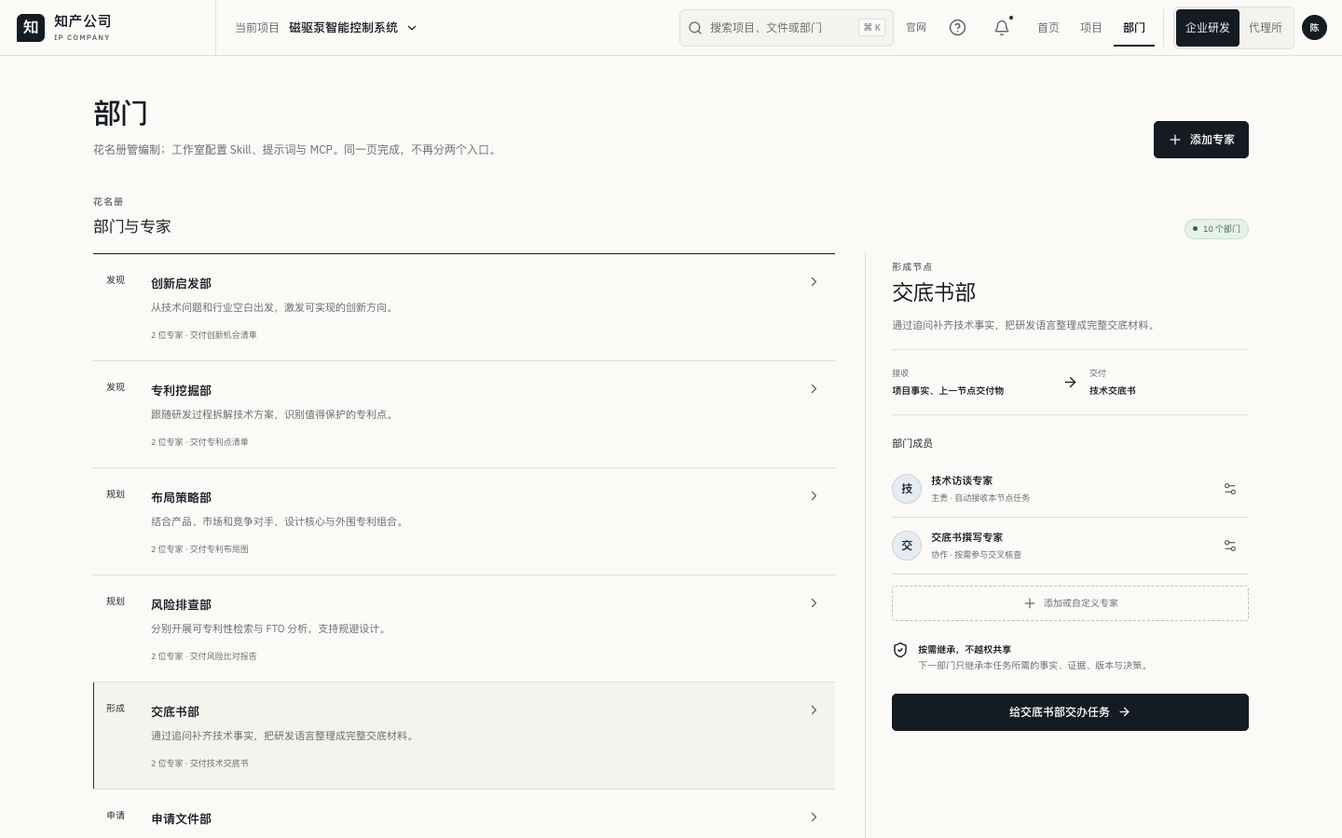
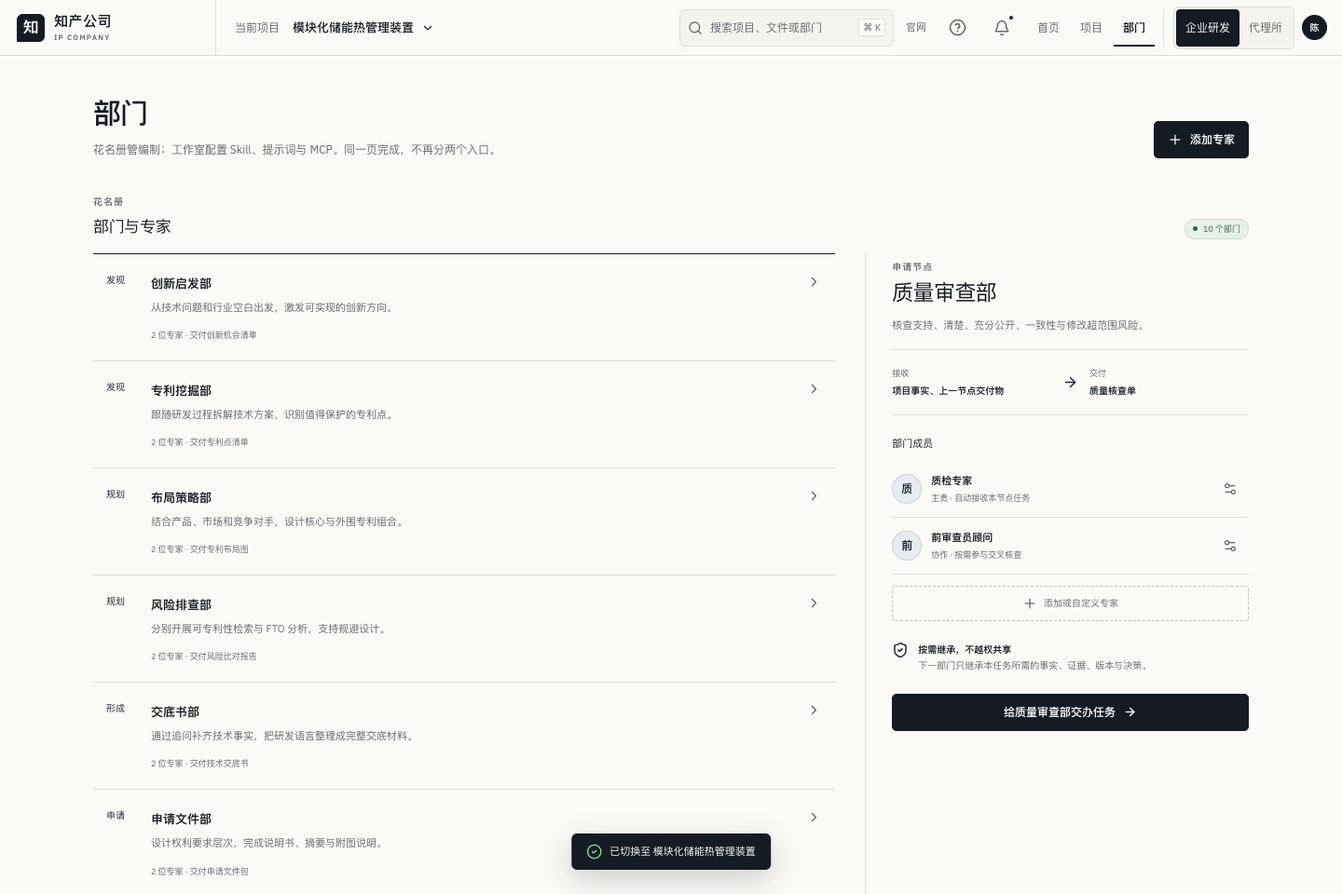
v3: project switcher + P1 a11y (forms, skip-link, hit areas)
Make topbar current-project a real recent-case picker with empty state;
fill form name/autocomplete; tabular nums; skip-link; drop dead messages view.

diff --git a/docs/prototype/main-path-v3/src/App.tsx b/docs/prototype/main-path-v3/src/App.tsx
@@ -131,12 +131,13 @@ export default function App() {
   const [customExperts, setCustomExperts] = useState<string[]>([])
   const [chat, setChat] = useState<string[]>([])
   const [message, setMessage] = useState('')
-  const [selectedMessage, setSelectedMessage] = useState(0)
   const [saved, setSaved] = useState(true)
   const [projectFilter, setProjectFilter] = useState('')
   const [objectFilter, setObjectFilter] = useState<'全部对象' | ObjectKind>('全部对象')
   const [noticeOpen, setNoticeOpen] = useState(false)
   const [homeMsgFocus, setHomeMsgFocus] = useState(false)
+  const [activeProjectCode, setActiveProjectCode] = useState<string | null>('RD-2026-017')
+  const [projectPickerOpen, setProjectPickerOpen] = useState(false)
   const [showProcess, setShowProcess] = useState(false)
   const [workContext, setWorkContext] = useState<WorkContext>('magnetic')
   const [leadInput, setLeadInput] = useState('')
@@ -152,6 +153,7 @@ export default function App() {
 
   const notify = (text: string) => { setToast(text); window.setTimeout(() => setToast(''), 2800) }
   const navigate = (next: View) => {
+    setProjectPickerOpen(false)
     if (next === 'messages') {
       setMode('assistant')
       setView('home')
@@ -181,14 +183,32 @@ export default function App() {
     setWorkContext(context)
     setActiveDoc(oa ? '意见陈述书' : context === 'storage' ? '权利要求草案' : handedOff ? '权利要求草案' : '交底书 V3')
     setActiveDept(oa ? 'oa' : context === 'storage' ? 'quality' : handedOff ? 'drafting' : 'disclosure')
+    setActiveProjectCode(oa ? 'CN202610483217.6' : context === 'storage' ? 'CN202610512086.4' : 'RD-2026-017')
     setFactConfirmed(false)
     setNodeConfirmed(false)
     setWorkView('collaboration')
+    setProjectPickerOpen(false)
     navigate('workbench')
   }
+  const selectActiveProject = (project: (typeof projects)[number]) => {
+    setActiveProjectCode(project.code)
+    setProjectPickerOpen(false)
+    if (project.kind === '产品风险') {
+      setActiveDept('risk')
+      notify(`已切换至 ${project.name}`)
+      return
+    }
+    const oa = project.stage.includes('OA')
+    const ctx: WorkContext = project.code === 'CN202610512086.4' || project.code === 'RD-2026-006' ? 'storage' : 'magnetic'
+    setWorkContext(oa ? 'magnetic' : ctx)
+    setActiveDoc(oa ? '意见陈述书' : ctx === 'storage' ? '权利要求草案' : handedOff ? '权利要求草案' : '交底书 V3')
+    setActiveDept(oa ? 'oa' : ctx === 'storage' ? 'quality' : handedOff ? 'drafting' : 'disclosure')
+    notify(`已切换至 ${project.name}`)
+  }
   const openProject = (project: (typeof projects)[number]) => {
+    setActiveProjectCode(project.code)
     if (project.kind === '产品风险') { setActiveDept('risk'); setModal('task'); return }
-    openWorkbench(project.stage.includes('OA'), project.code === 'CN202610512086.4' ? 'storage' : 'magnetic')
+    openWorkbench(project.stage.includes('OA'), project.code === 'CN202610512086.4' || project.code === 'RD-2026-006' ? 'storage' : 'magnetic')
   }
   const openDocument = (doc?: string) => {
     if (doc) setActiveDoc(doc)
@@ -206,6 +226,15 @@ export default function App() {
     : storageMode
       ? { glyph: 'ES', name: '模块化储能热管理装置', code: 'CN202610512086.4', status: '申请文件质检', object: '申请案件状态' }
       : { glyph: 'MP', name: '磁驱泵智能控制系统', code: 'RD-2026-017', status: handedOff ? '申请文件起草' : '交底书完善', object: '研发项目状态' }
+  const activeProject = projects.find(p => p.code === activeProjectCode) ?? null
+  const contextLabel = view === 'workbench'
+    ? (oaMode || storageMode ? '当前案件' : '当前项目')
+    : role === 'enterprise' ? '当前项目' : '当前客户'
+  const contextName = view === 'workbench'
+    ? workMeta.name
+    : activeProject
+      ? (role === 'agency' ? `澄明科技 · ${activeProject.name}` : activeProject.name)
+      : null
   const scopeText = oaMode && role === 'enterprise'
     ? '双方共享空间 · 代理所私有过程不可见'
     : role === 'agency'
@@ -324,23 +353,55 @@ export default function App() {
   const filteredSearch = searchItems.filter(i => `${i.title}${i.meta}`.toLowerCase().includes(search.toLowerCase()))
 
   if (surface === 'site') return <MarketingSite onEnter={() => setSurface('login')} onLogin={() => setSurface('login')} />
-  if (surface === 'login') return <LoginPage role={role} onRole={setRole} firstRun={firstRun} onFirstRun={setFirstRun} onBack={() => setSurface('site')} onEnter={() => { setSurface('app'); setMode('assistant'); setView('home'); setLeadRequest(''); setLeadInput('') }} />
+  if (surface === 'login') return <LoginPage role={role} onRole={setRole} firstRun={firstRun} onFirstRun={setFirstRun} onBack={() => setSurface('site')} onEnter={() => { setSurface('app'); setMode('assistant'); setView('home'); setLeadRequest(''); setLeadInput(''); setActiveProjectCode(firstRun ? null : 'RD-2026-017'); setProjectPickerOpen(false) }} />
 
   return <div className={`app-shell ${firstRun && view === 'home' ? 'first-run-shell' : ''}`}>
+    <a className="skip-link" href="#main-content">跳到主内容</a>
     <header className="topbar">
       {mode === 'project' && <button className="mobile-menu icon-btn" onClick={() => setMobileNav(true)} aria-label="打开导航"><Menu size={20} /></button>}
       <button className="brand" onClick={() => navigate('home')} aria-label="返回首页">
         <span className="brand-mark">知</span><span className="brand-copy"><strong>知产公司</strong><small>IP COMPANY</small></span>
       </button>
       <div className="topbar-context">
-        <span className="context-label">{view === 'workbench' ? (oaMode || storageMode ? '当前案件' : '当前项目') : role === 'enterprise' ? '当前项目' : '当前客户'}</span>
-        <button className="context-button" onClick={() => openWorkbench(role === 'agency')}>{view === 'workbench' ? workMeta.name : role === 'enterprise' ? '磁驱泵智能控制系统' : '澄明科技 · 低能耗膜分离工艺'}<ChevronDown size={14} /></button>
+        <span className="context-label">{contextLabel}</span>
+        <div className="context-picker">
+          <button
+            type="button"
+            className={`context-button ${!contextName ? 'context-empty' : ''}`}
+            aria-expanded={projectPickerOpen}
+            aria-haspopup="listbox"
+            aria-label={contextName ? `${contextLabel}：${contextName}` : `${contextLabel}：暂无活跃`}
+            onClick={() => { setNoticeOpen(false); setProjectPickerOpen(v => !v) }}
+          >
+            <span>{contextName ?? (firstRun ? '暂无活跃项目' : '选择项目')}</span>
+            <ChevronDown size={14} />
+          </button>
+          {projectPickerOpen && <div className="context-menu" role="listbox" aria-label="最近项目">
+            <div className="popover-title">{role === 'enterprise' ? '最近项目' : '最近案件'} <button type="button" onClick={() => setProjectPickerOpen(false)}>收起</button></div>
+            {(firstRun || !activeProjectCode) && <p className="context-empty-note">还没有活跃{role === 'enterprise' ? '项目' : '案件'}。可从列表选择，或新建后进入。</p>}
+            {projects.map(p => <button
+              key={p.code}
+              type="button"
+              role="option"
+              aria-selected={p.code === activeProjectCode}
+              className={p.code === activeProjectCode ? 'active' : ''}
+              onClick={() => selectActiveProject(p)}
+            >
+              <span><strong>{p.name}</strong><small>{p.kind} · {p.stage}</small></span>
+              {p.code === activeProjectCode && <Check size={14} />}
+            </button>)}
+            <div className="context-menu-foot">
+              <button type="button" onClick={() => { setProjectPickerOpen(false); switchMode('project') }}>打开{role === 'enterprise' ? '项目' : '案件'}列表</button>
+              <button type="button" onClick={() => { setProjectPickerOpen(false); setModal('new') }}>新建</button>
+            </div>
+          </div>}
+        </div>
       </div>
       <div className="topbar-actions">
         <button className="search-trigger" onClick={() => setSearchOpen(true)}><Search size={16} /><span>搜索项目、文件或部门</span><kbd>⌘ K</kbd></button>
         <button className="app-site-link" onClick={() => setSurface('site')}>官网</button><button className="icon-btn help-btn" onClick={() => setModal('guide')} aria-label="产品与原型导览"><CircleHelp size={19} /></button>
         <div className="notice-wrap">
-          <button className="icon-btn notice-button" onClick={() => setNoticeOpen(v => !v)} aria-label="通知"><Bell size={18} /><span /></button>
+          <button className="icon-btn notice-button" onClick={() => { setProjectPickerOpen(false); setNoticeOpen(v => !v) }} aria-label="通知"><Bell size={18} /><span /></button>
           {noticeOpen && <div className="notice-popover">
             <div className="popover-title">待办提醒 <button onClick={() => setNoticeOpen(false)}>收起</button></div>
             <button onClick={() => openWorkbench(role === 'agency')}><Clock3 size={16} /><span><strong>{role === 'enterprise' ? '交底书有 2 处待确认' : 'OA 答复期限剩余 18 天'}</strong><small>今天 14:30 前处理</small></span></button>
@@ -377,7 +438,7 @@ export default function App() {
         </div>
       </aside>}
 
-      <main className={`content ${view === 'workbench' ? 'content-workbench' : ''} ${mode === 'assistant' || mode === 'studio' ? 'content-assistant' : ''}`}>
+      <main id="main-content" className={`content ${view === 'workbench' ? 'content-workbench' : ''} ${mode === 'assistant' || mode === 'studio' ? 'content-assistant' : ''}`}>
         {view === 'home' && (role === 'enterprise' ? <>
           <section className="home-intro company-home-intro">
             <div><p className="date-line">{firstRun ? '你的虚拟知产公司 · 从第一件事开始' : '首页 · 顾言统一组织，你只处理关键确认与消息'}</p><h1>{firstRun ? <>你好，陈宇。<br />我是顾言，你的知产负责人。</> : <>早上好，陈宇。<br />今天有 3 件事需要你处理。</>}</h1></div>
@@ -398,7 +459,7 @@ export default function App() {
               ['产品上市前排查风险', '明确产品、地区和时间，再开展 FTO 分析', ShieldCheck],
               ['处理审查意见', '读取通知书与期限，组织答复策略和代理师复核', FileClock],
             ].map(([title, desc, Icon]) => <button key={String(title)} onClick={() => setLeadInput(String(title))}><Icon size={20} /><span><strong>{String(title)}</strong><small>{String(desc)}</small></span><ArrowUpRight size={16} /></button>)}</div></div>
-            <aside className="first-run-steps"><span className="section-kicker">开始之后</span>{[['01', '先看计划', '知道哪个部门负责、会交付什么'], ['02', '只补必要事实', '不需要一次性整理全部研发资料'], ['03', '确认再接力', '未经确认，不自动共享或对外递交']].map(s => <div key={s[0]}><span>{s[0]}</span><p><strong>{s[1]}</strong><small>{s[2]}</small></p></div>)}<button className="text-btn" onClick={() => setFirstRun(false)}>查看已有工作演示<ArrowRight size={14} /></button></aside>
+            <aside className="first-run-steps"><span className="section-kicker">开始之后</span>{[['01', '先看计划', '知道哪个部门负责、会交付什么'], ['02', '只补必要事实', '不需要一次性整理全部研发资料'], ['03', '确认再接力', '未经确认，不自动共享或对外递交']].map(s => <div key={s[0]}><span>{s[0]}</span><p><strong>{s[1]}</strong><small>{s[2]}</small></p></div>)}<button className="text-btn" onClick={() => { setFirstRun(false); setActiveProjectCode(v => v ?? 'RD-2026-017') }}>查看已有工作演示<ArrowRight size={14} /></button></aside>
           </section> : <>
           <section className="company-attention" aria-label="现在需要我处理">
             <div className="company-section-head"><div><span className="section-kicker">现在需要我处理</span><h2>按期限与流程影响排序</h2></div><button className="text-btn" onClick={() => navigate('messages')}>全部消息<ArrowRight size={14} /></button></div>
@@ -411,7 +472,7 @@ export default function App() {
               ['林岚 · 代理师', '请确认 D1 是否对应你们旧款产品', '磁驱泵智能控制系统', '10:31', 0],
               ['申请文件部', '权利要求草案已形成，等待你确认保护层次', '模块化储能热管理', '昨天', 1],
               ['风险排查部', '发现 1 件高风险专利，建议安排技术比对', '高速视觉检测设备', '周二', 2],
-            ].map((m) => <button key={String(m[0])} onClick={() => { setSelectedMessage(Number(m[4])); if (Number(m[4]) === 2) { setActiveDept('risk'); setModal('task') } else openWorkbench(false, Number(m[4]) === 1 ? 'storage' : 'magnetic') }}><Avatar name={String(m[0])} human={Number(m[4]) === 0} /><span><strong>{m[0]}</strong><small>{m[1]}</small><em>{m[2]} · {m[3]}</em></span><ChevronRight size={15} /></button>)}</div>
+            ].map((m) => <button key={String(m[0])} onClick={() => { if (Number(m[4]) === 2) { setActiveDept('risk'); setModal('task') } else openWorkbench(false, Number(m[4]) === 1 ? 'storage' : 'magnetic') }}><Avatar name={String(m[0])} human={Number(m[4]) === 0} /><span><strong>{m[0]}</strong><small>{m[1]}</small><em>{m[2]} · {m[3]}</em></span><ChevronRight size={15} /></button>)}</div>
           </section>
 
           <section className="company-work" aria-label="公司正在推进">
@@ -507,7 +568,7 @@ export default function App() {
               <div className="feed-item"><Avatar name="林" human small /><div><p><strong>林岚 · 代理师</strong><time>10:31</time></p><p>{oaMode ? '先保留方法权利要求的层次，不急于加入全部参数。请确认实际生产是否采用该范围。' : '从申请策略看，建议保留“异常评分自适应修正”这一层。它可能是后续答复创造性的关键。'}</p></div></div>
               {chat.map((c, i) => <div className="feed-item own" key={i}><Avatar name="我" human small /><div><p><strong>我</strong><time>刚刚</time></p><p>{c}</p></div></div>)}
             </div>
-            <div className="department-compose"><div><textarea value={message} onChange={e => setMessage(e.target.value)} onKeyDown={e => { if (e.key === 'Enter' && !e.shiftKey) { e.preventDefault(); sendChat() } }} placeholder="用自然语言交办或补充说明…" rows={2} /><button onClick={() => notify('附件选择器已打开')} aria-label="添加附件"><Paperclip size={16} /></button></div><div><span>Enter 发送</span><button className="icon-btn send-btn" onClick={sendChat} aria-label="发送"><Send size={16} /></button></div></div>
+            <div className="department-compose"><div><textarea name="dept_compose" autoComplete="off" value={message} onChange={e => setMessage(e.target.value)} onKeyDown={e => { if (e.key === 'Enter' && !e.shiftKey) { e.preventDefault(); sendChat() } }} placeholder="用自然语言交办或补充说明…" rows={2} aria-label="向部门交办" /><button onClick={() => notify('附件选择器已打开')} aria-label="添加附件"><Paperclip size={16} /></button></div><div><span>Enter 发送</span><button className="icon-btn send-btn" onClick={sendChat} aria-label="发送"><Send size={16} /></button></div></div>
             <button className="handoff-button" onClick={() => setModal('handoff')}><GitBranch size={16} /><span><strong>{oaMode ? role === 'agency' ? '交付客户确认' : '确认答复策略' : storageMode ? role === 'agency' ? '交付客户确认' : '确认质检与申请文件' : role === 'agency' ? '交付客户确认' : handedOff ? '查看接力记录' : '让下一部门继续'}</strong><small>{oaMode ? role === 'agency' ? '生成带版本与权限的交付快照' : '确认后回传代理所并保留记录' : storageMode ? role === 'agency' ? '生成质检版本与申请策略交付快照' : '质检版本与申请策略一并确认' : role === 'agency' ? '仅共享指定交付物与确认事项' : handedOff ? '交底书部 → 申请文件部' : '按权限继承所需事实、证据与版本'}</small></span><ArrowRight size={16} /></button>
           </aside>}
           </section> : <section className="collaboration-workspace">
@@ -527,7 +588,7 @@ export default function App() {
 
                 <section className="collab-feed"><div className="collab-section-head"><div><span className="section-kicker">动作与沟通</span><h2>项目内连续记录</h2></div><button className="text-btn" onClick={() => notify('已暂停当前节点的新任务，已有版本保留')}>暂停节点</button></div><div className="collab-event"><span className="event-time">10:24</span><div><p><strong>{collab.tasks[0][0]}</strong> {collab.tasks[0][3]}</p><button onClick={() => openDocument(collab.deliverableDoc)}>定位到交付物<ArrowUpRight size={12} /></button></div></div><div className="collab-event"><span className="event-time">10:31</span><div><p><strong>林岚 · 专利代理师</strong> {oaMode ? '建议保留修改层次，先确认实际生产控制逻辑，再确定最终答复口径。' : storageMode ? '两项遗留问题不影响继续核查，但保护范围需要企业研发与代理师共同确认。' : handedOff ? '独权暂不加入具体阈值，避免不必要缩小保护范围；仍需确认量产方案。' : '建议保留“异常评分自适应修正”这一层，可能是后续答复创造性的关键。'}</p></div></div>{chat.map((c, i) => <div className="collab-event own" key={`${c}-${i}`}><span className="event-time">刚刚</span><div><p><strong>我 → 顾言</strong> {c}</p><small>已纳入当前项目指令，部门会在本线程回复</small></div></div>)}</section>
               </div>
-              <form className="collab-compose" onSubmit={e => { e.preventDefault(); sendChat() }}><div><Avatar name="顾" small /><textarea value={message} onChange={e => setMessage(e.target.value)} onKeyDown={e => { if (e.key === 'Enter' && !e.shiftKey) { e.preventDefault(); sendChat() } }} placeholder="在当前项目中向顾言或部门交办：补充事实、调整目标、追问依据…" rows={2} /><button type="button" className="icon-btn" onClick={() => notify('附件将关联到当前项目与节点')} aria-label="添加项目附件"><Paperclip size={16} /></button></div><footer><div><button type="button" onClick={() => setMessage('请汇总当前节点还缺哪些事实和依据。')}>还缺什么</button><button type="button" onClick={() => setMessage('请调整工作计划，并说明对交付和期限的影响。')}>调整计划</button><button type="button" onClick={() => setMessage(`请让${collab.department}退回上一版本重新核查。`)}>退回核查</button></div><button className="btn btn-ink" type="submit" disabled={!message.trim()}>发送给顾言<Send size={14} /></button></footer></form>
+              <form className="collab-compose" onSubmit={e => { e.preventDefault(); sendChat() }}><div><Avatar name="顾" small /><textarea name="collab_compose" autoComplete="off" value={message} onChange={e => setMessage(e.target.value)} onKeyDown={e => { if (e.key === 'Enter' && !e.shiftKey) { e.preventDefault(); sendChat() } }} placeholder="在当前项目中向顾言或部门交办：补充事实、调整目标、追问依据…" rows={2} aria-label="向顾言交办" /><button type="button" className="icon-btn" onClick={() => notify('附件将关联到当前项目与节点')} aria-label="添加项目附件"><Paperclip size={16} /></button></div><footer><div><button type="button" onClick={() => setMessage('请汇总当前节点还缺哪些事实和依据。')}>还缺什么</button><button type="button" onClick={() => setMessage('请调整工作计划，并说明对交付和期限的影响。')}>调整计划</button><button type="button" onClick={() => setMessage(`请让${collab.department}退回上一版本重新核查。`)}>退回核查</button></div><button className="btn btn-ink" type="submit" disabled={!message.trim()}>发送给顾言<Send size={14} /></button></footer></form>
             </div>
 
             <aside className="delivery-confirm-pane">
@@ -578,9 +639,9 @@ export default function App() {
               <nav className="studio-tabs" aria-label="专业配置">{([['department', '部门组成'], ['experts', '专家定义'], ['skills', 'Skill'], ['prompt', '提示词'], ['mcp', 'MCP'], ['release', '测试与发布']] as const).map(([id, label]) => <button key={id} className={studioTab === id ? 'active' : ''} aria-pressed={studioTab === id} onClick={() => setStudioTab(id)}>{label}</button>)}</nav>
               <div className="studio-body">
                 {studioTab === 'department' && <div className="config-section"><div className="config-title"><div><h3>部门如何完成一次交付</h3><p>部门负责分工、接力、复核与验收，不是专家名单的简单集合。</p></div><button className="btn btn-secondary" onClick={() => setModal('expert')}><Plus size={14} />添加专家</button></div><div className="department-flow"><div><span>01</span><strong>主责专家起草</strong><small>读取本任务所需事实与证据</small></div><ArrowRight size={18} /><div><span>02</span><strong>协作专家核查</strong><small>按 Skill 执行检查与补充</small></div><ArrowRight size={18} /><div><span>03</span><strong>真实人员复核</strong><small>确认后形成{currentDept.output}</small></div></div>{currentDept.experts.map((e, i) => <div className="expert-row" key={e}><Avatar name={e} /><div><strong>{e}</strong><small>{i === 0 ? '主责 · 组织输入、起草与自检' : '协作 · 交叉核查与例外处理'}</small></div><button className="btn btn-secondary" onClick={() => setStudioTab('experts')}>配置职责</button></div>)}<div className="department-rule"><ShieldCheck size={18} /><p><strong>验收与权限</strong><br />交付必须绑定来源、版本和复核记录；跨组织仅共享确认快照。</p></div></div>}
-                {studioTab === 'experts' && <div className="config-section"><div className="config-title"><div><h3>专家定义</h3><p>专家定义“负责什么、不能做什么”，具体方法由 Skill 提供。</p></div><Status>个人草稿</Status></div><div className="config-form"><label>专家名称<input defaultValue={currentDept.experts[0]} /></label><label>职责与责任边界<textarea rows={4} defaultValue={`负责${currentDept.name}的主责任务；核验输入完整性，组织起草与自检。不得替代真实代理师作最终法律判断，不得补造技术事实。`} /></label><div className="form-two"><label>参与方式<select defaultValue="每个本部门任务均参与"><option>每个本部门任务均参与</option><option>按需参与</option><option>仅指定时参与</option></select></label><label>异常时升级给<select defaultValue="真实代理师"><option>真实代理师</option><option>知产负责人</option><option>企业研发负责人</option></select></label></div><div className="config-actions"><span>保存为草稿，不影响进行中的项目</span><button className="btn btn-ink" onClick={() => notify('专家定义已保存为个人草稿')}>保存专家草稿</button></div></div></div>}
+                {studioTab === 'experts' && <div className="config-section"><div className="config-title"><div><h3>专家定义</h3><p>专家定义“负责什么、不能做什么”，具体方法由 Skill 提供。</p></div><Status>个人草稿</Status></div><div className="config-form"><label>专家名称<input name="studio_expert_name" autoComplete="off" defaultValue={currentDept.experts[0]} /></label><label>职责与责任边界<textarea name="studio_expert_duty" autoComplete="off" rows={4} defaultValue={`负责${currentDept.name}的主责任务；核验输入完整性，组织起草与自检。不得替代真实代理师作最终法律判断，不得补造技术事实。`} /></label><div className="form-two"><label>参与方式<select name="studio_expert_mode" autoComplete="off" defaultValue="每个本部门任务均参与"><option>每个本部门任务均参与</option><option>按需参与</option><option>仅指定时参与</option></select></label><label>异常时升级给<select name="studio_expert_escalate" autoComplete="off" defaultValue="真实代理师"><option>真实代理师</option><option>知产负责人</option><option>企业研发负责人</option></select></label></div><div className="config-actions"><span>保存为草稿，不影响进行中的项目</span><button className="btn btn-ink" onClick={() => notify('专家定义已保存为个人草稿')}>保存专家草稿</button></div></div></div>}
                 {studioTab === 'skills' && <div className="config-section"><div className="config-title"><div><h3>绑定 Skill</h3><p>Skill 提供方法、流程、模板、规则和示例，可跨专家复用。</p></div><button className="btn btn-secondary" onClick={() => notify('Skill 模板库已打开')}><Library size={14} />从模板库添加</button></div><div className="skill-grid">{[['技术事实完整性核查', '检查问题、方案、效果与替代实施方式是否闭环', '团队模板 · V2.1'], ['交底书结构化撰写', '按中国发明专利交底结构组织内容与追问', '组织模板 · V3.4'], ['证据来源与引用检查', '确保结论能够回到文献、段落和检索日期', '组织模板 · V1.8']].map((s, i) => <article key={s[0]}><div><FileCheck2 size={18} /><Status tone={i === 0 ? 'orange' : 'green'}>{i === 0 ? '待更新' : '已绑定'}</Status></div><h4>{s[0]}</h4><p>{s[1]}</p><footer><span>{s[2]}</span><button onClick={() => notify(`${s[0]}配置已打开`)}>查看规则<ArrowUpRight size={13} /></button></footer></article>)}</div></div>}
-                {studioTab === 'prompt' && <div className="config-section"><div className="config-title"><div><h3>提示词与行为约束</h3><p>约束判断原则、表达方式和禁止事项，不把密钥或可变业务数据写进提示词。</p></div><Status>部门统一规则</Status></div><div className="prompt-editor"><div><span>system_prompt.md</span><small>草稿自动保存于本地演示</small></div><textarea value={prompt} onChange={e => { setPrompt(e.target.value); setTestPassed(false); setPublished(false) }} rows={9} aria-label="部门提示词" /><footer><span>{prompt.length} 字 · 继承组织安全规则</span><button className="btn btn-ink" onClick={() => notify('提示词草稿已保存')}>保存草稿</button></footer></div><div className="department-rule"><CircleAlert size={18} /><p><strong>优先级</strong><br />组织安全与权限规则 ＞ 部门规则 ＞ 专家个性约束 ＞ 单次任务说明。</p></div></div>}
+                {studioTab === 'prompt' && <div className="config-section"><div className="config-title"><div><h3>提示词与行为约束</h3><p>约束判断原则、表达方式和禁止事项，不把密钥或可变业务数据写进提示词。</p></div><Status>部门统一规则</Status></div><div className="prompt-editor"><div><span>system_prompt.md</span><small>草稿自动保存于本地演示</small></div><textarea name="studio_prompt" autoComplete="off" value={prompt} onChange={e => { setPrompt(e.target.value); setTestPassed(false); setPublished(false) }} rows={9} aria-label="部门提示词" /><footer><span>{prompt.length} 字 · 继承组织安全规则</span><button className="btn btn-ink" onClick={() => notify('提示词草稿已保存')}>保存草稿</button></footer></div><div className="department-rule"><CircleAlert size={18} /><p><strong>优先级</strong><br />组织安全与权限规则 ＞ 部门规则 ＞ 专家个性约束 ＞ 单次任务说明。</p></div></div>}
                 {studioTab === 'mcp' && <div className="config-section"><div className="config-title"><div><h3>MCP 数据与工具连接</h3><p>连接只提供必要能力；凭据由管理员保管，专家按任务获得最小权限。</p></div><button className="btn btn-secondary" onClick={() => notify('连接申请已提交管理员')}><Cable size={14} />申请新连接</button></div><div className="mcp-list">{[['专利文献检索', '只读 · 检索与文献正文', '组织已连接'], ['企业研发文档库', '只读 · 当前项目授权目录', '项目授权'], ['案件与期限管理', '读写 · 仅本部门负责案件', '组织已连接']].map(m => <div key={m[0]}><span className="mcp-icon"><Cable size={17} /></span><div><strong>{m[0]}</strong><small>{m[1]} · {m[2]}</small></div><button className={`toggle ${mcpEnabled.includes(m[0]) ? 'on' : ''}`} role="switch" aria-checked={mcpEnabled.includes(m[0])} aria-label={`${m[0]}连接`} onClick={() => { setMcpEnabled(v => v.includes(m[0]) ? v.filter(x => x !== m[0]) : [...v, m[0]]); setTestPassed(false); setPublished(false) }}><span /></button></div>)}</div><div className="department-rule"><ShieldCheck size={18} /><p><strong>最小权限与审计</strong><br />禁止把访问密钥写入提示词；所有外部读取、写入与交付动作保留调用记录。</p></div></div>}
                 {studioTab === 'release' && <div className="config-section"><div className="config-title"><div><h3>试运行、发布与回滚</h3><p>配置只有通过样例测试和权限检查，才能成为团队或组织模板。</p></div><Status tone={testPassed ? 'green' : 'orange'}>{testPassed ? '测试通过' : '待测试'}</Status></div><div className="release-grid"><div><FlaskConical size={20} /><h4>01 · 样例试运行</h4><p>使用“磁驱泵交底书 V3”验证输入读取、专家接力、输出结构和人工升级。</p><button className="btn btn-secondary" onClick={() => { setTestPassed(true); notify('3 个样例测试通过，权限检查通过') }}><FlaskConical size={14} />{testPassed ? '重新运行测试' : '运行 3 个样例'}</button></div><div><Rocket size={20} /><h4>02 · 发布新版本</h4><p>发布范围：团队模板。进行中的项目继续使用原版本，新项目可选择 V1.4。</p><button className="btn btn-ink" disabled={!testPassed || published} onClick={() => { setPublished(true); notify('V1.4 已发布；进行中项目仍使用原版本') }}><Rocket size={14} />{published ? '已发布 V1.4' : '发布 V1.4'}</button></div></div><div className="version-table"><div><strong>版本</strong><strong>范围</strong><strong>状态</strong><strong>项目策略</strong></div><div><span>V1.3</span><span>团队模板</span><Status tone="green">当前正式版</Status><span>进行中项目继续使用</span></div><div><span>V1.4</span><span>个人草稿</span><Status tone={published ? 'green' : 'neutral'}>{published ? '已发布' : testPassed ? '可发布' : '草稿'}</Status><span>不追溯修改旧项目</span></div></div><button className="text-btn" onClick={() => notify('已打开 V1.2 回滚预览，尚未执行回滚')}><GitBranch size={14} />查看历史版本与回滚预览</button></div>}
               </div>
@@ -589,29 +650,22 @@ export default function App() {
           </section>
         </ListPage>}
 
-        {view === 'messages' && <ListPage title={role === 'enterprise' ? '协同消息' : '客户协同'} subtitle="讨论始终关联项目、文档和决策，不再散落在即时通讯里。" action="发起协同" onAction={() => setModal('task')}>
-          <div className="messages-layout"><div className="message-list">{[
-            ['林岚 · 代理师', '请确认 D1 是否对应你们旧款产品', '磁驱泵智能控制系统', '10:31'],
-            ['申请文件部', '权利要求草案已形成，等待你确认保护层次', '模块化储能热管理', '昨天'],
-            ['风险排查部', '发现 1 件高风险专利，建议安排技术比对', '高速视觉检测设备', '周二'],
-          ].map((m, i) => <button key={m[0]} className={selectedMessage === i ? 'active' : ''} onClick={() => setSelectedMessage(i)}><Avatar name={m[0]} human={i === 0} /><div><strong>{m[0]}</strong><p>{m[1]}</p><small>{m[2]}</small></div><time>{m[3]}</time></button>)}</div><div className="message-thread"><div className="thread-head"><div><strong>{['林岚 · 代理师', '申请文件部', '风险排查部'][selectedMessage]}</strong><small>{['磁驱泵智能控制系统', '模块化储能热管理', '高速视觉检测设备'][selectedMessage]}</small></div><button className="btn btn-secondary" onClick={() => { if (selectedMessage === 2) { setActiveDept('risk'); setModal('task') } else openWorkbench(false, selectedMessage === 1 ? 'storage' : 'magnetic') }}>进入项目</button></div><div className="thread-body"><div className="thread-date">今天</div><div className="thread-message"><Avatar name="林" human /><div><p>{selectedMessage === 0 ? '检索报告中的 D1 描述了一种磁驱泵温度保护方案。请确认它是否对应你们 2024 年已经销售的 MP-200，以及当时是否公开了控制逻辑。' : selectedMessage === 1 ? '已根据交底书形成 12 项权利要求，其中独立权利要求 2 项。请重点确认保护范围是否覆盖计划量产方案。' : 'CN114820391B 的权利要求 1 与当前视觉检测结构存在较高重合。建议研发、代理师一起确认可规避特征。'}</p><small>10:31 · 关联检索证据 D1</small></div></div><div className="thread-message own"><Avatar name="陈" human /><div><p>我先和硬件负责人核对旧款资料，今天 14:00 前给你结论。</p><small>10:36 · 已读</small></div></div></div><div className="thread-compose"><input placeholder="回复，并保留在当前项目记录中…" onKeyDown={e => { if (e.key === 'Enter') { notify('回复已发送并归档到项目'); e.currentTarget.value = '' } }} /><button className="btn btn-ink" onClick={() => notify('回复已发送并归档到项目')}>发送</button></div></div></div>
-        </ListPage>}
       </main>
     </div>
 
     {toast && <div className="toast" role="status" aria-live="polite"><CheckCircle2 size={17} />{toast}</div>}
 
     {searchOpen && <Modal title="搜索整个知产公司" subtitle="项目、案件、文件和部门，都可以从这里直达。" onClose={() => { setSearchOpen(false); setSearch('') }}>
-      <div className="command-search"><Search size={19} /><input autoFocus value={search} onChange={e => setSearch(e.target.value)} placeholder="输入名称、编号或工作内容…" /><kbd>ESC</kbd></div><div className="search-results">{filteredSearch.slice(0, 8).map(item => <button key={item.title} onClick={() => { item.action(); setSearchOpen(false); setSearch('') }}><Search size={15} /><span><strong>{item.title}</strong><small>{item.meta}</small></span><ArrowUpRight size={15} /></button>)}{filteredSearch.length === 0 && <div className="empty-search">没有找到匹配内容，试试“交底书”或“FTO”。</div>}</div>
+      <div className="command-search"><Search size={19} /><input name="global_search" autoComplete="off" autoFocus value={search} onChange={e => setSearch(e.target.value)} placeholder="输入名称、编号或工作内容…" aria-label="搜索项目、文件或部门" /><kbd>ESC</kbd></div><div className="search-results">{filteredSearch.slice(0, 8).map(item => <button key={item.title} onClick={() => { item.action(); setSearchOpen(false); setSearch('') }}><Search size={15} /><span><strong>{item.title}</strong><small>{item.meta}</small></span><ArrowUpRight size={15} /></button>)}{filteredSearch.length === 0 && <div className="empty-search">没有找到匹配内容，试试“交底书”或“FTO”。</div>}</div>
     </Modal>}
 
     {modal === 'new' && <Modal title={role === 'enterprise' ? '启动一个新项目' : '新建案件'} subtitle="不用选择 Agent。告诉我们业务目标，系统会推荐负责部门和推进路径。" onClose={() => setModal(null)}>
-      <form className="form-stack" onSubmit={e => { e.preventDefault(); setModal(null); notify('项目已建立，创新启发部开始整理输入'); openWorkbench(false) }}><label>项目或技术名称<input required defaultValue="" placeholder="例如：一种低噪声磁驱泵控制方案" /></label><label>你想解决什么问题？<textarea required rows={4} placeholder="可以直接粘贴研发描述，不需要使用专利语言…" /></label><div className="form-two"><label>业务场景<select defaultValue="研发成果保护"><option>研发成果保护</option><option>新产品上市风险排查</option><option>收到审查意见</option><option>已有专利运营</option></select></label><label>期望申请类型<select defaultValue="由部门建议"><option>由部门建议</option><option>发明专利</option><option>实用新型</option><option>发明 + 实用新型</option></select></label></div><div className="form-hint"><Sparkles size={16} /><span>建议首站：创新启发部 → 专利挖掘部。后续会根据项目情况调整，而非固定走完整条流程。</span></div><div className="modal-actions"><button type="button" className="btn btn-secondary" onClick={() => setModal(null)}>取消</button><button className="btn btn-primary" type="submit">建立项目并开始<ArrowRight size={16} /></button></div></form>
+      <form className="form-stack" onSubmit={e => { e.preventDefault(); setModal(null); notify('项目已建立，创新启发部开始整理输入'); openWorkbench(false) }}><label>项目或技术名称<input name="project_name" autoComplete="off" required defaultValue="" placeholder="例如：一种低噪声磁驱泵控制方案" /></label><label>你想解决什么问题？<textarea name="project_goal" autoComplete="off" required rows={4} placeholder="可以直接粘贴研发描述，不需要使用专利语言…" /></label><div className="form-two"><label>业务场景<select name="project_scene" autoComplete="off" defaultValue="研发成果保护"><option>研发成果保护</option><option>新产品上市风险排查</option><option>收到审查意见</option><option>已有专利运营</option></select></label><label>期望申请类型<select name="project_type" autoComplete="off" defaultValue="由部门建议"><option>由部门建议</option><option>发明专利</option><option>实用新型</option><option>发明 + 实用新型</option></select></label></div><div className="form-hint"><Sparkles size={16} /><span>建议首站：创新启发部 → 专利挖掘部。后续会根据项目情况调整，而非固定走完整条流程。</span></div><div className="modal-actions"><button type="button" className="btn btn-secondary" onClick={() => setModal(null)}>取消</button><button className="btn btn-primary" type="submit">建立项目并开始<ArrowRight size={16} /></button></div></form>
     </Modal>}
 
-    {modal === 'task' && <Modal title="交办一项任务" subtitle={`${currentDept.name}会在权限范围内读取本任务所需内容，你只需说明目标与限制。`} onClose={() => setModal(null)}><form className="form-stack" onSubmit={e => { e.preventDefault(); setModal(null); notify(`任务已交给${currentDept.name}`); openWorkbench(false) }}><label>任务目标<textarea required rows={4} defaultValue={currentDept.id === 'risk' ? '针对计划在中国上市的 MP-300 新产品开展 FTO 分析，重点排查磁驱控制与密封结构。' : ''} placeholder="例如：上市前排查这款产品在中国的专利风险" /></label><label>希望交付物<select><option>{currentDept.output}</option><option>部门建议的完整交付包</option></select></label><label>需要重点照顾的要求<input placeholder="时间、预算、目标市场或指定专家（选填）" /></label><div className="modal-actions"><button type="button" className="btn btn-secondary" onClick={() => setModal(null)}>取消</button><button className="btn btn-primary" type="submit">确认交办<ArrowRight size={16} /></button></div></form></Modal>}
+    {modal === 'task' && <Modal title="交办一项任务" subtitle={`${currentDept.name}会在权限范围内读取本任务所需内容，你只需说明目标与限制。`} onClose={() => setModal(null)}><form className="form-stack" onSubmit={e => { e.preventDefault(); setModal(null); notify(`任务已交给${currentDept.name}`); openWorkbench(false) }}><label>任务目标<textarea name="task_goal" autoComplete="off" required rows={4} defaultValue={currentDept.id === 'risk' ? '针对计划在中国上市的 MP-300 新产品开展 FTO 分析，重点排查磁驱控制与密封结构。' : ''} placeholder="例如：上市前排查这款产品在中国的专利风险" /></label><label>希望交付物<select name="task_deliverable" autoComplete="off"><option>{currentDept.output}</option><option>部门建议的完整交付包</option></select></label><label>需要重点照顾的要求<input name="task_notes" autoComplete="off" placeholder="时间、预算、目标市场或指定专家（选填）" /></label><div className="modal-actions"><button type="button" className="btn btn-secondary" onClick={() => setModal(null)}>取消</button><button className="btn btn-primary" type="submit">确认交办<ArrowRight size={16} /></button></div></form></Modal>}
 
-    {modal === 'expert' && <Modal title="添加一位专家" subtitle="用职责与工作方式定义专家，不需要配置提示词、模型或工具链。" onClose={() => setModal(null)}><form className="form-stack" onSubmit={e => { e.preventDefault(); const data = new FormData(e.currentTarget); const name = String(data.get('expert') || '自定义专家'); setCustomExperts(v => [...v, name]); setModal(null); notify(`${name}已加入${currentDept.name}`) }}><label>专家名称<input name="expert" required placeholder="例如：泵行业资深技术顾问" /></label><label>加入部门<select defaultValue={currentDept.name}>{departments.map(d => <option key={d.id}>{d.name}</option>)}</select></label><label>他 / 她擅长什么？<textarea required rows={3} placeholder="例如：熟悉磁驱泵结构，擅长判断技术方案能否落地" /></label><label>参与方式<select><option>按需参与，由部门负责人邀请</option><option>每个任务都参与交叉复核</option><option>只在我指定时参与</option></select></label><div className="modal-actions"><button type="button" className="btn btn-secondary" onClick={() => setModal(null)}>取消</button><button className="btn btn-primary" type="submit">加入部门</button></div></form></Modal>}
+    {modal === 'expert' && <Modal title="添加一位专家" subtitle="用职责与工作方式定义专家，不需要配置提示词、模型或工具链。" onClose={() => setModal(null)}><form className="form-stack" onSubmit={e => { e.preventDefault(); const data = new FormData(e.currentTarget); const name = String(data.get('expert') || '自定义专家'); setCustomExperts(v => [...v, name]); setModal(null); notify(`${name}已加入${currentDept.name}`) }}><label>专家名称<input name="expert" autoComplete="off" required placeholder="例如：泵行业资深技术顾问" /></label><label>加入部门<select name="expert_dept" autoComplete="off" defaultValue={currentDept.name}>{departments.map(d => <option key={d.id}>{d.name}</option>)}</select></label><label>他 / 她擅长什么？<textarea name="expert_skill" autoComplete="off" required rows={3} placeholder="例如：熟悉磁驱泵结构，擅长判断技术方案能否落地" /></label><label>参与方式<select name="expert_mode" autoComplete="off"><option>按需参与，由部门负责人邀请</option><option>每个任务都参与交叉复核</option><option>只在我指定时参与</option></select></label><div className="modal-actions"><button type="button" className="btn btn-secondary" onClick={() => setModal(null)}>取消</button><button className="btn btn-primary" type="submit">加入部门</button></div></form></Modal>}
 
     {modal === 'handoff' && <Modal title={oaMode ? role === 'agency' ? '交付客户确认' : '确认 OA 答复策略' : storageMode ? '确认质检与申请文件' : handedOff ? '部门接力记录' : '把项目交给下一部门'} subtitle="按权限继承所需事实、证据、版本与决策；跨组织时只共享交付快照。" onClose={() => setModal(null)}>
       <div className="handoff-visual"><div><Avatar name={oaMode ? '答' : storageMode ? '质' : '交'} /><strong>{oaMode ? 'OA 答复部' : storageMode ? '质量审查部' : '交底书部'}</strong><small>{oaMode ? '答复策略与文本已形成' : storageMode ? '质检版本与核查项已形成' : '技术事实已确认'}</small></div><span><ArrowRight size={21} /></span><div><Avatar name={oaMode ? '陈' : storageMode ? '王' : '申'} human={oaMode || storageMode} /><strong>{oaMode ? role === 'agency' ? '澄明科技 · 陈宇' : '陈宇 · 企业确认' : storageMode ? '王工 · 企业确认' : '申请文件部'}</strong><small>{oaMode ? '确认策略与修改范围' : storageMode ? '确认文本与申请策略' : '设计权利要求与说明书'}</small></div></div>

diff --git a/docs/prototype/main-path-v3/src/App.css b/docs/prototype/main-path-v3/src/App.css
@@ -1,5 +1,25 @@
 #root { min-height: 100dvh; }
 
+.skip-link {
+  position: absolute;
+  left: 12px;
+  top: -48px;
+  z-index: 100;
+  padding: 10px 14px;
+  min-height: 40px;
+  background: var(--ink);
+  color: var(--paper);
+  border-radius: 6px;
+  font-size: 12px;
+  font-weight: 600;
+  text-decoration: none;
+}
+.skip-link:focus {
+  top: 12px;
+  outline: 2px solid var(--accent);
+  outline-offset: 2px;
+}
+
 :root {
   /* High-knowledge / text-worker desk: paper + slate ink; chroma only for status */
   --paper: oklch(0.985 0.004 95);
@@ -39,7 +59,22 @@ button:disabled { cursor: not-allowed; opacity: .5; }
 .brand-copy small { font-size: 8px; letter-spacing: .15em; color: var(--ink-3); margin-top: 5px; font-weight: 600; }
 .topbar-context { display: flex; align-items: center; gap: 10px; padding-left: 20px; min-width: 0; }
 .context-label { color: var(--ink-3); font-size: 12px; white-space: nowrap; }
-.context-button { display: flex; align-items: center; gap: 8px; background: transparent; border: 0; color: var(--ink); font-size: 13px; font-weight: 500; max-width: 280px; white-space: nowrap; overflow: hidden; text-overflow: ellipsis; padding: 8px 0; }
+.context-picker { position: relative; min-width: 0; }
+.context-button { display: flex; align-items: center; gap: 8px; background: transparent; border: 0; color: var(--ink); font-size: 13px; font-weight: 500; max-width: 280px; min-height: 40px; white-space: nowrap; padding: 8px 4px; border-radius: 5px; }
+.context-button > span { overflow: hidden; text-overflow: ellipsis; white-space: nowrap; }
+.context-button:hover { background: var(--warm-paper); }
+.context-button.context-empty { color: var(--ink-3); font-weight: 500; }
+.context-menu { position: absolute; left: 0; top: calc(100% + 6px); width: min(360px, 70vw); background: var(--paper); border: 1px solid var(--line); box-shadow: 0 16px 50px rgba(20,18,15,.13); border-radius: 8px; padding: 8px; z-index: 50; }
+.context-empty-note { margin: 8px; color: var(--ink-3); font-size: 11px; line-height: 1.5; }
+.context-menu > button { width: 100%; display: flex; align-items: center; justify-content: space-between; gap: 10px; padding: 10px 8px; border: 0; border-bottom: 1px solid var(--line); background: transparent; text-align: left; color: var(--ink-2); min-height: 40px; }
+.context-menu > button:last-of-type { border-bottom: 0; }
+.context-menu > button:hover, .context-menu > button.active { background: var(--warm-paper); color: var(--ink); }
+.context-menu > button span { display: flex; flex-direction: column; gap: 3px; min-width: 0; }
+.context-menu > button strong { font-size: 12px; color: var(--ink); }
+.context-menu > button small { font-size: 10px; color: var(--ink-3); }
+.context-menu-foot { display: flex; gap: 8px; padding: 8px 4px 2px; border-top: 1px solid var(--line); margin-top: 4px; }
+.context-menu-foot button { flex: 1; min-height: 40px; border: 1px solid var(--line); border-radius: 5px; background: var(--paper); color: var(--ink-2); font-size: 11px; }
+.context-menu-foot button:hover { background: var(--warm-paper); border-color: var(--line-strong); }
 .topbar-actions { margin-left: auto; padding: 0 16px; display: flex; align-items: center; gap: 8px; }
 .search-trigger { height: 40px; width: 230px; border: 1px solid var(--line); border-radius: 6px; background: var(--warm-paper); display: flex; align-items: center; gap: 8px; padding: 0 8px; color: var(--ink-3); font-size: 12px; transition: border-color .18s, background .18s; }
 .search-trigger:hover { border-color: var(--line-strong); background: var(--paper); }
@@ -131,7 +166,7 @@ kbd { font-family: inherit; font-size: 10px; border: 1px solid var(--line); bord
 .lead-command form .btn { min-height: 39px; font-size: 10px; }
 .lead-suggestions { display: flex; align-items: center; flex-wrap: wrap; gap: 7px; margin-top: 9px; }
 .lead-suggestions > span { color: var(--ink-3); font-size: 9px; margin-right: 2px; }
-.lead-suggestions button { border: 0; border-bottom: 1px solid var(--line-strong); background: transparent; color: var(--ink-3); padding: 2px 0; font-size: 9px; }
+.lead-suggestions button { border: 0; border-bottom: 1px solid var(--line-strong); background: transparent; color: var(--ink-3); padding: 10px 4px; min-height: 40px; font-size: 11px; }
 .lead-suggestions button:hover { color: var(--ink); border-color: var(--ink); }
 .lead-response { display: flex; align-items: flex-start; gap: 9px; margin-top: 13px; padding-top: 13px; border-top: 1px solid var(--line); }
 .lead-response > svg { flex: 0 0 auto; color: var(--green); margin-top: 2px; }
@@ -330,7 +365,8 @@ kbd { font-family: inherit; font-size: 10px; border: 1px solid var(--line); bord
 .working-team svg { color: var(--green); }
 .department-progress { padding: 12px 16px; border-bottom: 1px solid var(--line); }
 .department-progress > div:first-child { display: flex; justify-content: space-between; color: var(--ink-3); font-size: 9px; margin-bottom: 8px; }
-.department-progress strong { color: var(--ink-2); }
+.department-progress strong { color: var(--ink-2); font-variant-numeric: tabular-nums; }
+.department-progress, .mini-progress, .object-filter, .attention-order { font-variant-numeric: tabular-nums; }
 .progress-track { height: 3px; background: var(--line); overflow: hidden; }
 .progress-track span { display: block; height: 100%; background: var(--accent); transition: width .25s ease-out; }
 .department-feed { flex: 1; min-height: 80px; overflow-y: auto; padding: 13px 16px; }
@@ -361,7 +397,7 @@ kbd { font-family: inherit; font-size: 10px; border: 1px solid var(--line); bord
 .page-title h1 { margin: 0 0 8px; font-size: 30px; letter-spacing: -.035em; font-weight: 500; }
 .page-title p { margin: 0; color: var(--ink-3); font-size: 12px; line-height: 1.6; }
 .object-filter { display: flex; align-items: center; gap: 4px; margin-bottom: 18px; border-bottom: 1px solid var(--line); overflow-x: auto; }
-.object-filter > button { display: inline-flex; align-items: center; gap: 7px; flex: 0 0 auto; border: 0; border-bottom: 2px solid transparent; background: transparent; color: var(--ink-3); padding: 10px 12px; font-size: 11px; }
+.object-filter > button { display: inline-flex; align-items: center; gap: 7px; flex: 0 0 auto; border: 0; border-bottom: 2px solid transparent; background: transparent; color: var(--ink-3); padding: 10px 12px; min-height: 40px; font-size: 11px; }
 .object-filter > button:hover { color: var(--ink); }
 .object-filter > button.active { color: var(--accent-dark); border-bottom-color: var(--accent); font-weight: 600; }
 .object-filter > button > span { display: grid; place-items: center; min-width: 17px; height: 17px; padding: 0 4px; border-radius: 10px; background: var(--warm-paper); color: var(--ink-3); font-size: 8px; }
@@ -460,7 +496,7 @@ kbd { font-family: inherit; font-size: 10px; border: 1px solid var(--line); bord
 .studio-head p { margin: 8px 0 0; max-width: 590px; color: var(--ink-3); font-size: 10px; line-height: 1.65; }
 .studio-head > div:last-child { display: flex; align-items: center; gap: 9px; }
 .studio-tabs { display: flex; gap: 2px; padding: 0 18px; border-top: 1px solid var(--line); border-bottom: 1px solid var(--line); overflow-x: auto; }
-.studio-tabs button { flex: 0 0 auto; padding: 12px 10px 10px; border: 0; border-bottom: 2px solid transparent; background: transparent; color: var(--ink-3); font-size: 10px; }
+.studio-tabs button { flex: 0 0 auto; padding: 12px 10px 10px; min-height: 40px; border: 0; border-bottom: 2px solid transparent; background: transparent; color: var(--ink-3); font-size: 10px; }
 .studio-tabs button.active { color: var(--accent-dark); border-bottom-color: var(--accent); font-weight: 600; }
 .studio-body { padding: 24px 26px 30px; }
 .config-section { max-width: 900px; }
